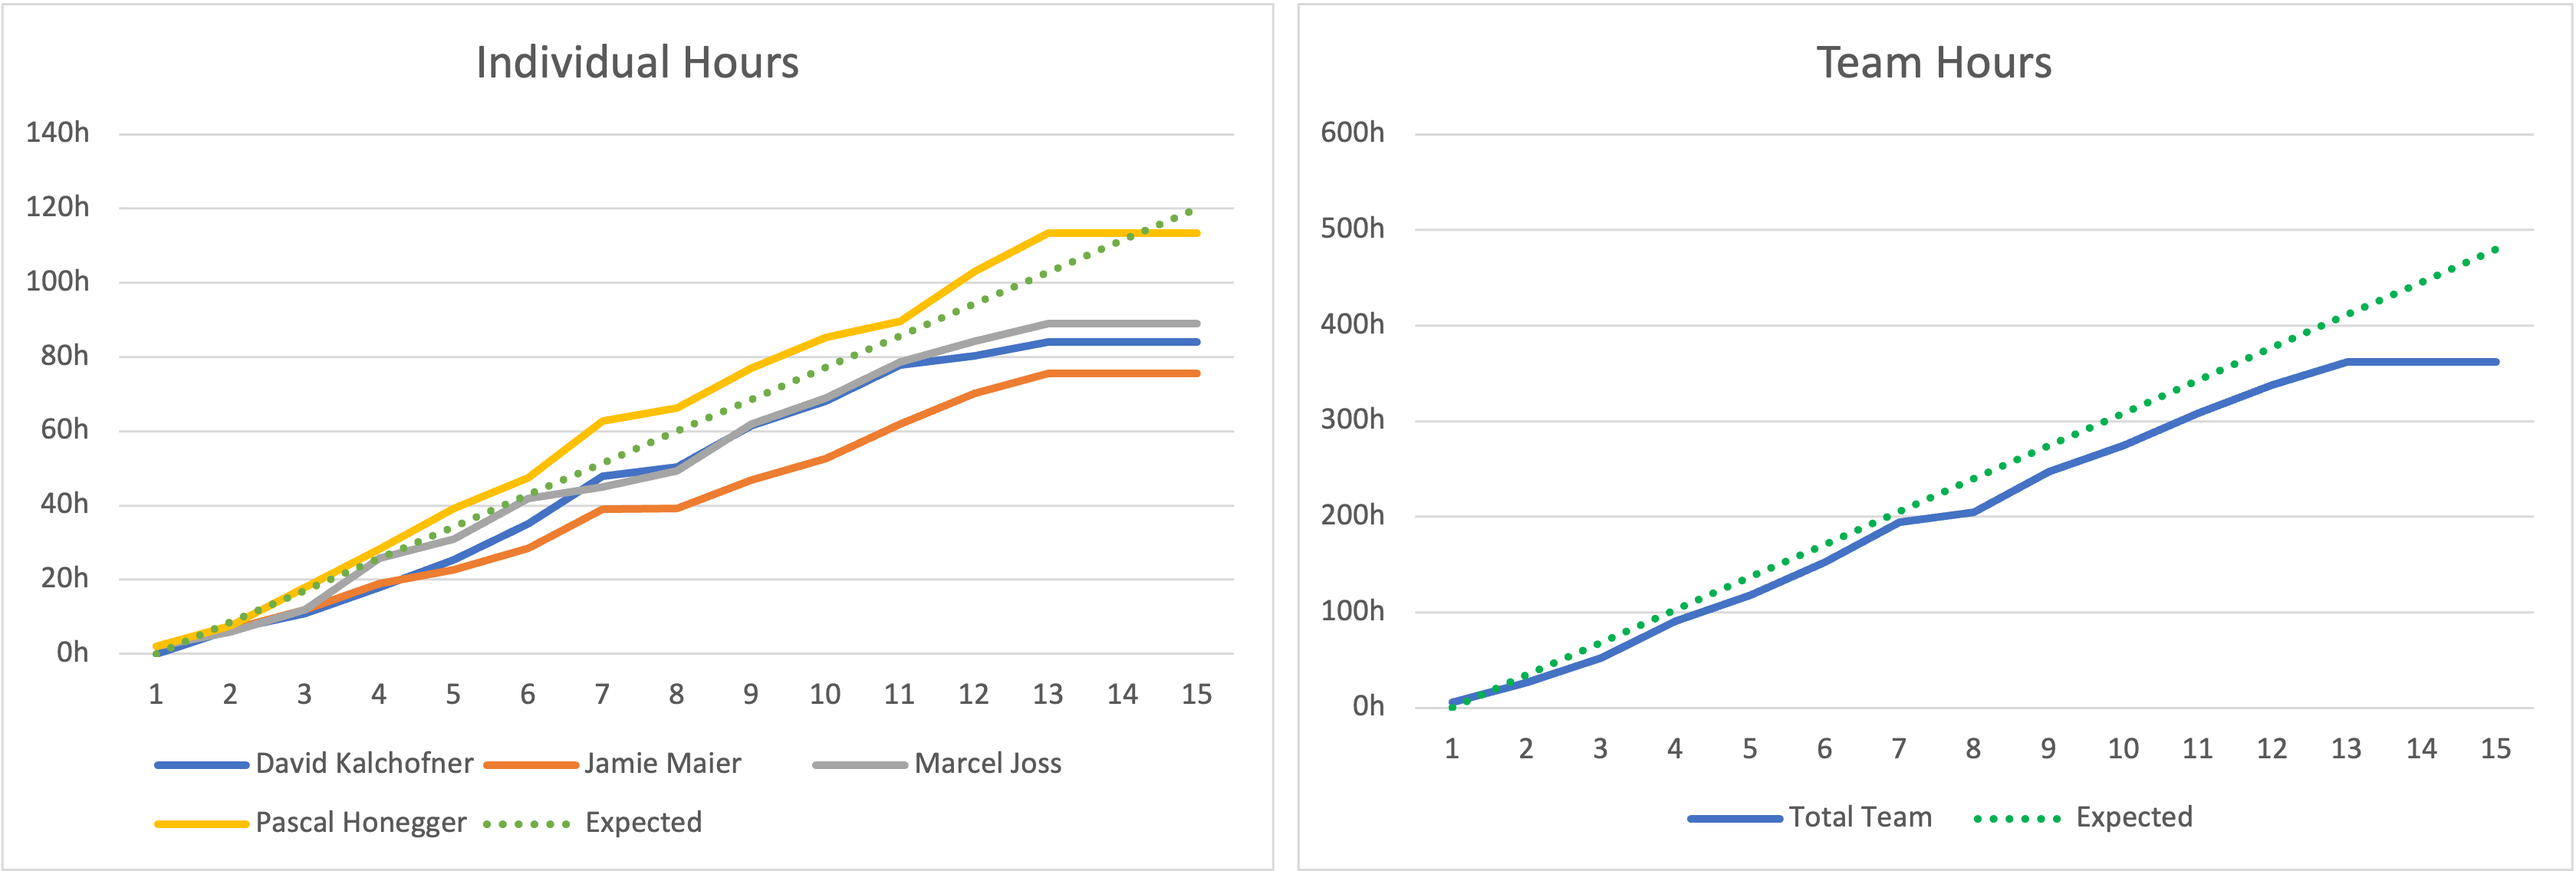
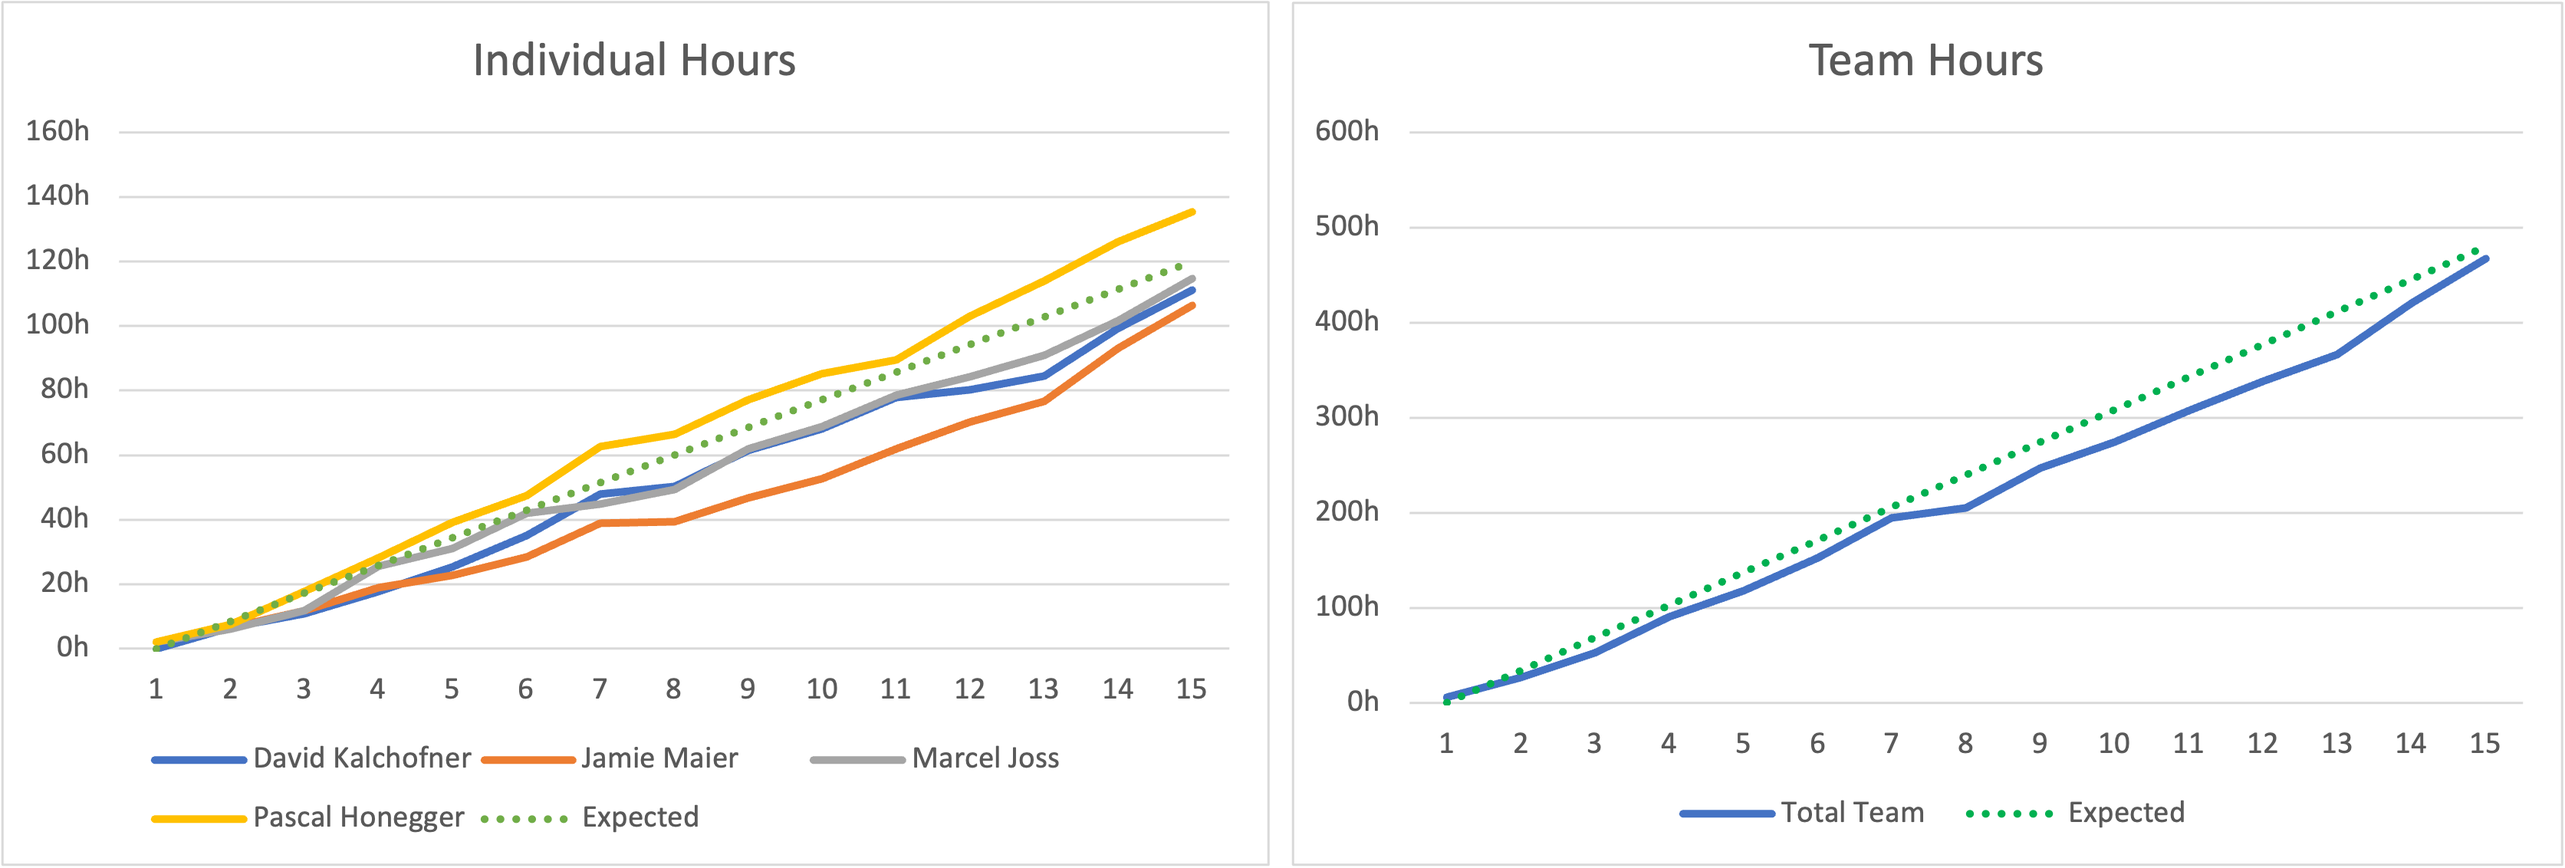
feat(doc): update time tracking report

diff --git a/Documentation/src/03_project-documentation/03_time-tracking-report.tex b/Documentation/src/03_project-documentation/03_time-tracking-report.tex
@@ -5,3 +5,16 @@ Detailed reports with hours spent per issue, epic and sprint can be found there.
 The following charts focus on the overall progress to notice early trends, in case certain members invest significantly more or less time than expected
 
 \noindent\includegraphics[width=\textwidth]{resources/time-tracking-report}
+
+\begin{table}[H]
+    \begin{tabular}{l|r|r}
+        \textbf{Who} & \textbf{Logged Hours} & \textbf{Expected Hours} \\
+        \hline
+        Pascal & 135h & 120h \\
+        Marcel & 115h & 120h \\
+        David  & 111h & 120h \\
+        Jamie  & 106h & 120h \\
+        \hline
+        Team   & 468h & 480h
+    \end{tabular}
+\end{table}
